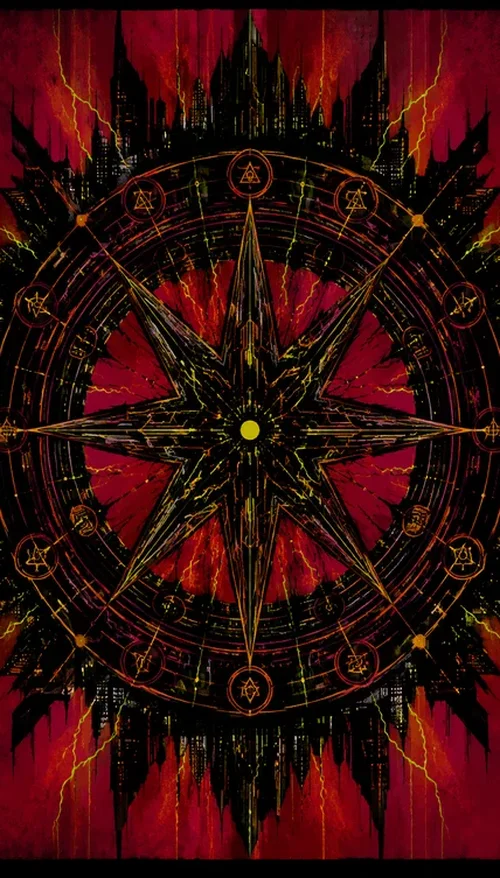
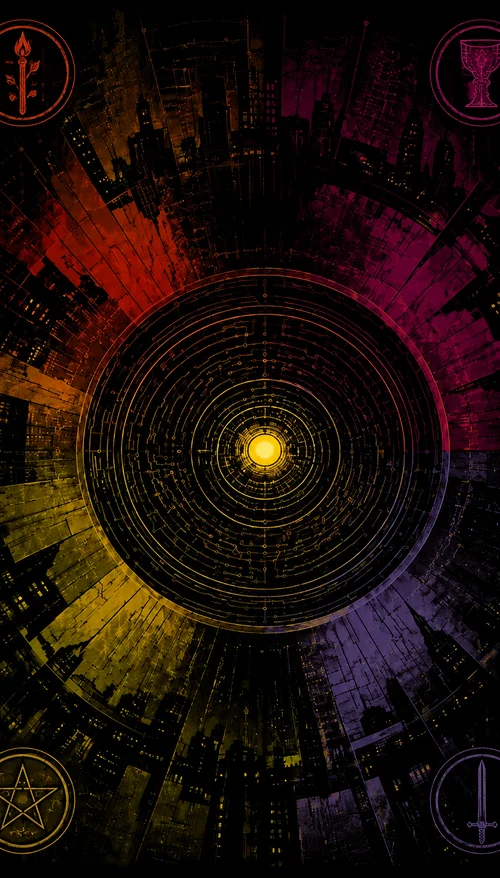
feat: 致敬夜之城卡背重设计定稿(中央电路徽记+四角花色小印章),旧八芒星保留注册为夜城星芒

diff --git a/AGENTS.md b/AGENTS.md
@@ -46,6 +46,7 @@ npx vitest run tests/<file>.spec.js   # 单文件测试
   - **用户反馈迭代（2026-08-19/20）**：皮肤更名「致敬夜之城」；力量重绘（用户反馈原图无力量感，改双手合拢机械狮颚的构图）；**修了全员黑边 bug**（fit_crop 裁宽而非裁高，2:3 图源裁高会 pad 黑边，已全量重裁统一 500x839、牌背 500x878）。牌阵选择指引上线：`spreads.json` 每阵新增 `guide{fit,who,tip}`（数据契约测试守卫）+ 选牌阵页「怎么选牌阵？」底部弹层（12 阵按使用情境三组：日常与状态/事件与抉择/周期与仪式，含提问四原则与三条告诫，组件测试覆盖开合交互）。**修了孤儿牌背 bug（2026-08-20 用户反馈「牌背选择里看不到」）**：牌背选择/牌背墙只读 `public/backs/index.json`，皮肤包自带 `back.webp` 不注册就是死资产（`backImageUrl` 全项目零调用）--已把绚烂霓虹/致敬夜之城两张 AI 牌背注册进牌背注册表，加契约测试守卫（`tests/backs-registry.spec.js`：非遗留皮肤的牌背必须注册），两个生图管线 `register()` 同步注册牌背。
 
 - ✅ **v1.5.0 对抗性审查与修复（2026-08-24）**：三路并行审查（lib+stores / views+components / 数据契约+资产）产出 40+ 实证问题，全部处置。**高危修复**：备份键清单漏 `custom-spreads`/`challenge`（换机丢创作数据）→补齐+坏键跳过+导入 journal 结构校验与 500 上限；`mirror.dailyFreq` 双重减 4 小时（04:00-08:00 窗口频次整体错位）→删手动偏移+边界测试；`stepBack` 重抽后 `journalId` 不失效（记录库存旧牌面）→回退到 picking/shuffling 时删旧记录连带 dailyDraws 引用；皮肤注册表零契约测试→新增 `tests/decks-registry.spec.js`（manifest 存在/78 键全等/文件在盘/cardsFrom 无环）。**中危**：ai-client 超时改流式空闲超时+监听器清理收口 finally（SSE 挂起永久 pending、ProfileView `.next()` 丢 generator 泄漏连接）；ChatStream 卸载中止+失败重试+AbortError 不再报「网络错误」；容量淘汰清 dailyDraws 悬空引用；`completeLesson` XP 幂等（章末课重玩刷分）+成就 id 不再按数组序号拼；RevealView `free.value` 模板笔误（自由摆放指引永不显示）；ReadingDetailView 无效深链空态（原点保存/删除即崩）；MirrorPanel 复盘失败可重试且错误文案不再能存成日记；ShareCardModal 生成失败不再继续下载/分享+卸载回收 blob URL；PracticeLesson 重置进行中局前确认；清空数据走 safeKeys/safeRemoveItem（iOS 阻 Cookie 场景）；App.vue popstate 用 history.state.position 分辨前进/后退（前进被当回退再退一步）；iOS 安装引导改「分享→添加到主屏幕」文案（原为永不生效的死按钮）；牌背墙/每日一抽/时间线/牌阵画布空 src 守卫；toast 增加 warn 档；自定义牌阵 id 防撞+label 限长；settings 逐字段校验坏值回落默认；cardsFrom 环检测；分享卡问题 30 字防截断+toBlob 失败 reject。**配置/资产**：SW 预缓存排除 style-samples（本地构建版权图曾随 SW 分发）+deck-images 缓存 200→400（312 张全量浏览会击穿）；月相/节气数据加**地平线守卫**（到期前一年 CI 转红提醒补数据）；gen-mural FAIL 卡改删除不入库+register 幂等不覆写定稿 manifest+字体查找列表化+四王原画去 `.png.png` 双扩展名；package.json 0.0.0→1.5.0；README 功能清单与实物对齐（12 阵/4 皮肤/收藏馆/自定义牌阵）；`useEscClose`→`use-esc-close` 统一 kebab-case。**遗留 backlog**：gen-mural/gen-deck-ai 两管线抽公共模块（大重构，风险高暂缓）；分享卡占位矩形升级为真牌面缩略图。
+  - ✅ **卡背重设计定稿（2026-08-24）**：用户发起致敬夜之城卡背重设计，五轮目验（拟真义眼被否→图标义眼文字重生成跑偏→**改用旧 V2 原图作 img2img 参考局部改绘保真**→三方向候选闭眼/心象/虹膜→R1 同心环徽记定中心→四角花色「小而完整不抢镜」收敛）终稿 W4：中央电路同心环徽记+四角花色小印章（顺时针权杖橙/圣杯品红/宝剑紫/星币金）+花色色域渐变+城市边框。旧八芒星卡背保留注册为独立牌背「夜城星芒」（`backs/night-mural-star.webp`），与新「致敬夜之城」并存可切。**坑**：本轮生图代理响应极不稳（空响应/下载截断频发，疑似限流），逐张 try/except+8s 间隔续跑是正解。
 
 ## 架构与关键约定
 
